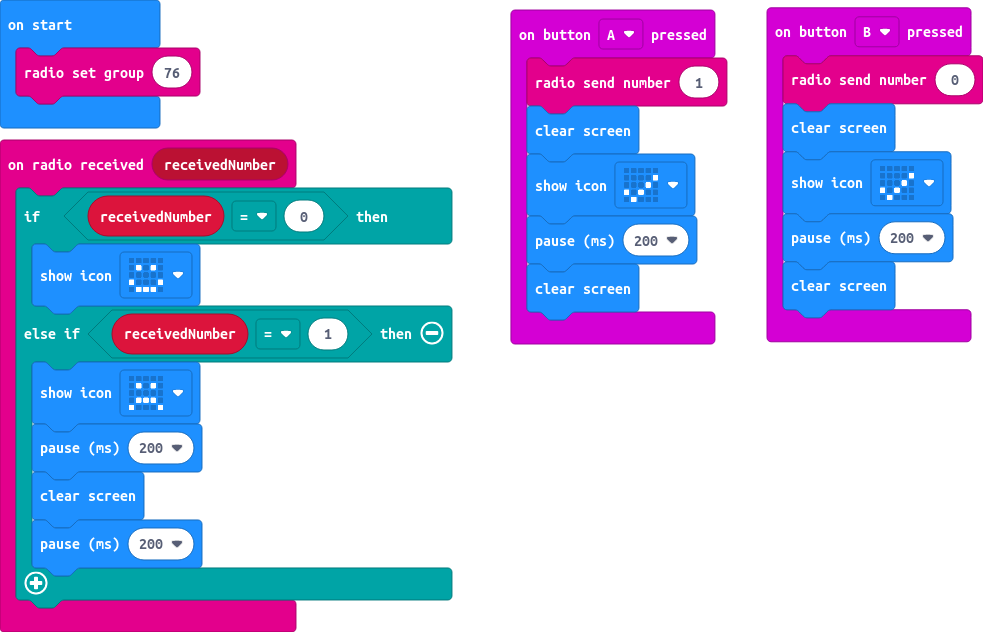
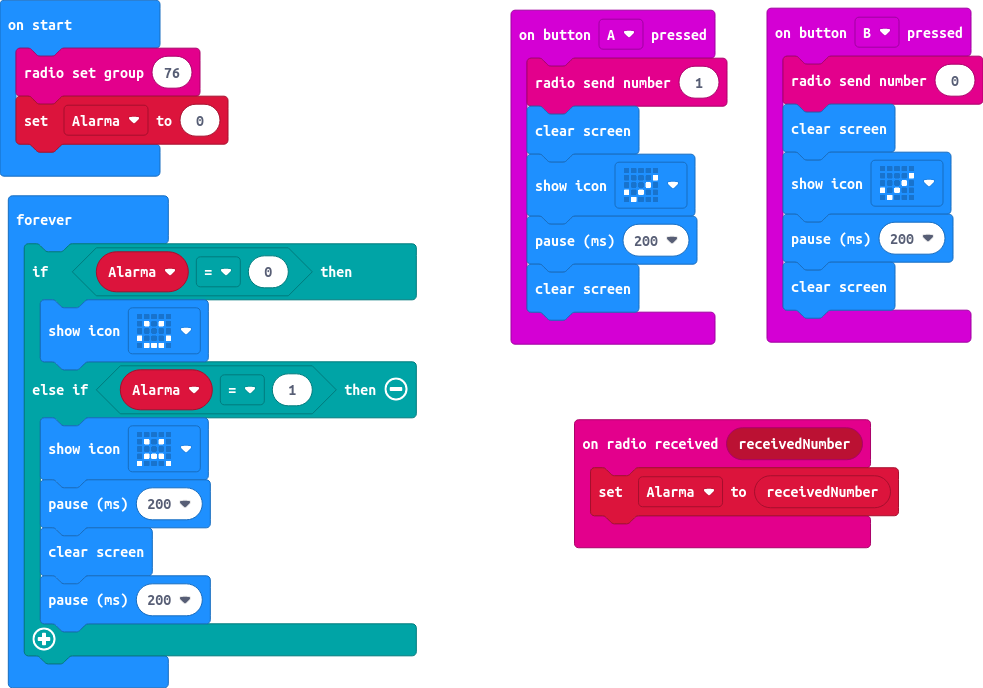
Update main.blocks, main.ts

diff --git a/main.ts b/main.ts
@@ -1,12 +1,5 @@
 radio.onReceivedNumber(function (receivedNumber) {
-    if (receivedNumber == 0) {
-        basic.showIcon(IconNames.Happy)
-    } else if (receivedNumber == 1) {
-        basic.showIcon(IconNames.Sad)
-        basic.pause(200)
-        basic.clearScreen()
-        basic.pause(200)
-    }
+    Alarma = receivedNumber
 })
 input.onButtonPressed(Button.A, function () {
     radio.sendNumber(1)
@@ -22,4 +15,16 @@ input.onButtonPressed(Button.B, function () {
     basic.pause(200)
     basic.clearScreen()
 })
+let Alarma = 0
 radio.setGroup(76)
+Alarma = 0
+basic.forever(function () {
+    if (Alarma == 0) {
+        basic.showIcon(IconNames.Happy)
+    } else if (Alarma == 1) {
+        basic.showIcon(IconNames.Sad)
+        basic.pause(200)
+        basic.clearScreen()
+        basic.pause(200)
+    }
+})
